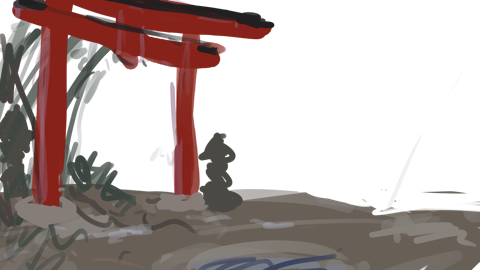
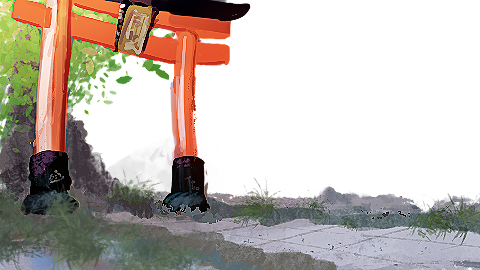
uo

diff --git a/src/main/java/game/phisics/Controller/GuraController.java b/src/main/java/game/phisics/Controller/GuraController.java
@@ -41,11 +41,13 @@ public class GuraController extends CharaController{
      }
 
      @Override public int attack4(){
-         attack.setX(character.getX()+character.getWidth()/4);
-         attack.setY(character.getY()-character.getHeight()/2);
-         attack.setWidth(character.getWidth()/2);
+         attack.setX(character.getX()-character.getWidth()/4);
+         attack.setY(character.getY()+character.getHeight()/4*3);
+         attack.setWidth(character.getWidth()*1.5);
          attack.setHeight(character.getHeight()/2);
          attack.setDamege(50);
+         character.setVx(0);
+         attack.setVecy(10);
          return 50;
      }
      @Override public void jump(){
@@ -83,6 +85,11 @@ public class GuraController extends CharaController{
                     }
                 }else {if(attack.getX()!=-1)attack.setVy((50-character.getTimetomove())/3);attack.move();}
             }else if(character.getAction()==Behavior.ATTACK4){
+                if(attack.getRanded()) character.setVy(0);
+                else character.setVy(30);
+                attack.setVx(character.getVx());
+                attack.setVy(character.getVy());
+                attack.move();
             }
      }
 }

diff --git a/src/main/java/Animation/CharacterPlayer/PlayCharacter.java b/src/main/java/Animation/CharacterPlayer/PlayCharacter.java
@@ -5,6 +5,7 @@ import Animation.EffectAnimationManager;
 import Animation.EffectPlayer.*;
 import Animation.CharaAnimationPlayer;
 import Audio.AudioHolder;
+import Audio.AudioPlayer;
 import game.config.CharaData.*;
 import game.config.Character;
 import game.util.Time;
@@ -58,7 +59,7 @@ public class PlayCharacter {
     public void changedAction(CharacterState state) {
         switch (state.getBehavior()){
             case DAMAGE :
-                AudioHolder.damage.loop(1);
+                AudioPlayer.PlayVoice(AudioHolder.damage);
                 EffectAnimationManager.addEffectAnimation("HIT",1, Time.Instance.getTotalTime(),state);
                 EffectManager.addColorAdjust(Time.Instance.getTotalTime(), 1,0,0,1,0,true);
                 EffectManager.addDisplacementMap(Time.Instance.getTotalTime(),3, state.getAx(), state.getAy(), true);
@@ -116,7 +117,7 @@ public class PlayCharacter {
     protected void ShowAttackPolygon(CharacterState state){}
 
     private void ShowStatus(){
-        gc.setFill(Color.BLUE);
+        gc.setStroke(Color.BLUE);
         gc.setFont(Font.font(20));
         switch (this.state.getBehavior()) {
             case NORMAL:

diff --git a/src/main/java/game/config/PATH.java b/src/main/java/game/config/PATH.java
@@ -11,6 +11,7 @@ public final class PATH {
     public static final String sounds = root + "\\src\\main\\resources\\game\\sounds";
     public static final String Back = img + "\\Back.jpg";
     public static final String Floor = img + "\\floor.png";
+    public static final String Kusa = img + "\\kusa.png";
 
     public static final String HIT = img + "\\hiteffect -Sheet.png";
 
@@ -35,7 +36,7 @@ public final class PATH {
     public static final String HomeBGM = sounds + "\\BGM\\のんきな日常.wav";
     public static final String FinishBGM = sounds + "\\BGM\\Let's!.wav";
 
-    public static final String TRIDENT = img + "\\img\\Gura\\Guratrydent-Sheet.png";
+    public static final String TRIDENT = img + "\\Gura\\Guratrydent-Sheet.png";
 
     public static final String Effect_HIT = sounds + "\\hit.wav";
     public static final String Hizyousyoku =img +"\\hizyousyoku-Sheet .png";

diff --git a/src/main/java/game/view/panel/UoPanel.java b/src/main/java/game/view/panel/UoPanel.java
@@ -80,7 +80,7 @@ public class UoPanel extends BasePanel<UoPanelState, IUoPanel> implements Initia
             rightName.setText(getState().room.getUser(0).getName());
         }
         new PlayUI(gc3,host,client);
-        debug = false;
+        debug = true;
         continueButton.setOnAction(e -> {EffectManager.resetGraphicsContext(); props.ContinueGame();});
         quitButton.setOnAction(e -> {EffectManager.resetGraphicsContext(); props.QuitGame();});
 
@@ -132,7 +132,7 @@ public class UoPanel extends BasePanel<UoPanelState, IUoPanel> implements Initia
 
         /*gc3,canvas3*/
         gc3.clearRect(0,0,canvas3.getWidth(),canvas3.getHeight());
-
+        gc3.drawImage(state.kusa,-20,-20,1320,742.5);
         PlayUI.play();
         //PlayUI.debug(hoge);
         if(debug){

diff --git a/src/main/java/game/view/state/UoPanelState.java b/src/main/java/game/view/state/UoPanelState.java
@@ -34,7 +34,7 @@ public final class UoPanelState {
     public final Hashtable<Integer, PlayCharacter> playerTable;
     public Timer timer;
     public Clip bgm;
-    public Image floor,back;
+    public Image floor,back,kusa;
     public UoPanelState(User self, GrpcRoom room){
         this.self = self;
         this.room = room;
@@ -53,6 +53,8 @@ public final class UoPanelState {
         back  = new Image(imagePath.toUri().toString(),1280,720,false,false);
         Path imagPath = Paths.get(PATH.Floor);
         floor = new Image(imagPath.toUri().toString(),1280,720,false,false);
+        Path imaPath = Paths.get(PATH.Kusa);
+        kusa = new Image(imaPath.toUri().toString(),1280,720,false,false);
     }
 
 

diff --git a/src/main/java/game/view/panel/WaitRoomPanel.java b/src/main/java/game/view/panel/WaitRoomPanel.java
@@ -148,7 +148,6 @@ public class WaitRoomPanel extends BasePanel<WaitRoomState, IWaitRoom> implement
                 y.playAudio();
                 selfImg = y.img;
             });
-
             EffectManager.addSelectionWiggle(true,Time.Instance.getTotalTime(),true,(int)Self.getLayoutX(),(int)Self.getLayoutY(),(int)Enemy.getLayoutX(),(int)Enemy.getLayoutY());
         }
 //        var users = state.currentRoom.getUserList().stream().filter(x -> state.self.getId() != x.getId());

diff --git a/src/main/java/Animation/CharacterPlayer/PlayGura.java b/src/main/java/Animation/CharacterPlayer/PlayGura.java
@@ -82,8 +82,8 @@ public class PlayGura extends PlayCharacter{
                     }
                     break;
             }
-//            gc.setFill(Color.RED);
-//            gc.strokeRect(state.getAtkX(),state.getAtkY(),state.getAtkW(),state.getAtkH());
+            gc.setStroke(Color.RED);
+            gc.strokeRect(state.getAtkX(),state.getAtkY(),state.getAtkW(),state.getAtkH());
         }else{
             if(flag) { flag = false;}
         }

diff --git a/src/main/java/game/phisics/Controller/AmeliaController.java b/src/main/java/game/phisics/Controller/AmeliaController.java
@@ -38,7 +38,7 @@ public class AmeliaController extends CharaController{
         return 50;
      }
      @Override public void jump(){
-             character.vector(0, -10);
+             character.vector(0, -18);
      }
      @Override public void attacking(){
             if(character.getAction()!=Behavior.ATTACK1&&character.getAction()!=Behavior.ATTACK2&&attack.getX()!=-1){

diff --git a/src/main/java/Animation/CharacterPlayer/PlayAme.java b/src/main/java/Animation/CharacterPlayer/PlayAme.java
@@ -26,6 +26,7 @@ public class PlayAme extends PlayCharacter{
 
     @Override
     public void changedAction(CharacterState state) {
+        super.changedAction(state);
         switch (state.getBehavior()){
             case NORMAL:
                 if(state.getDirection()==Direction.LEFT){
